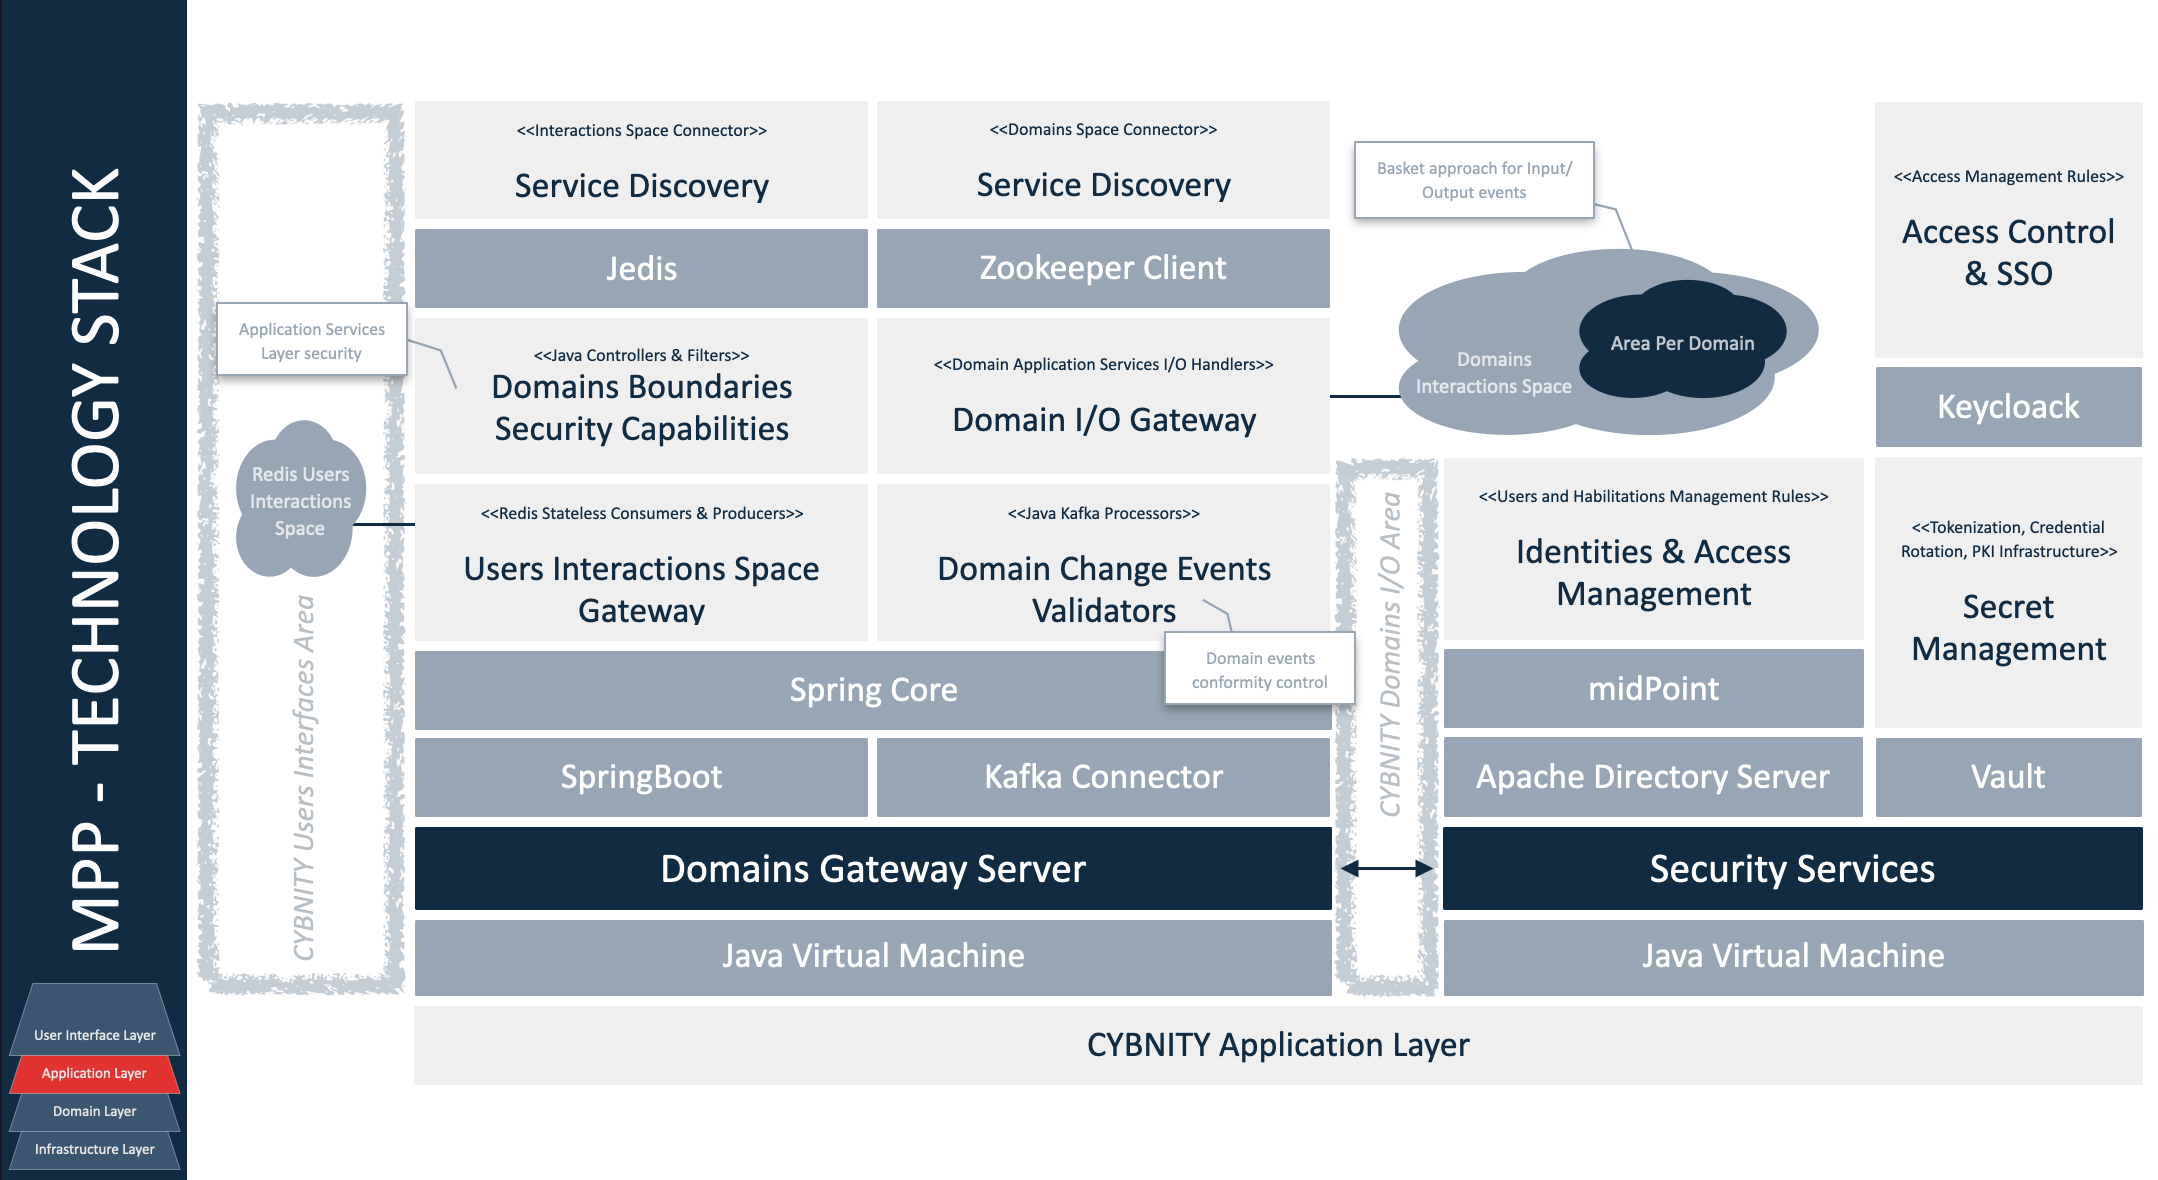
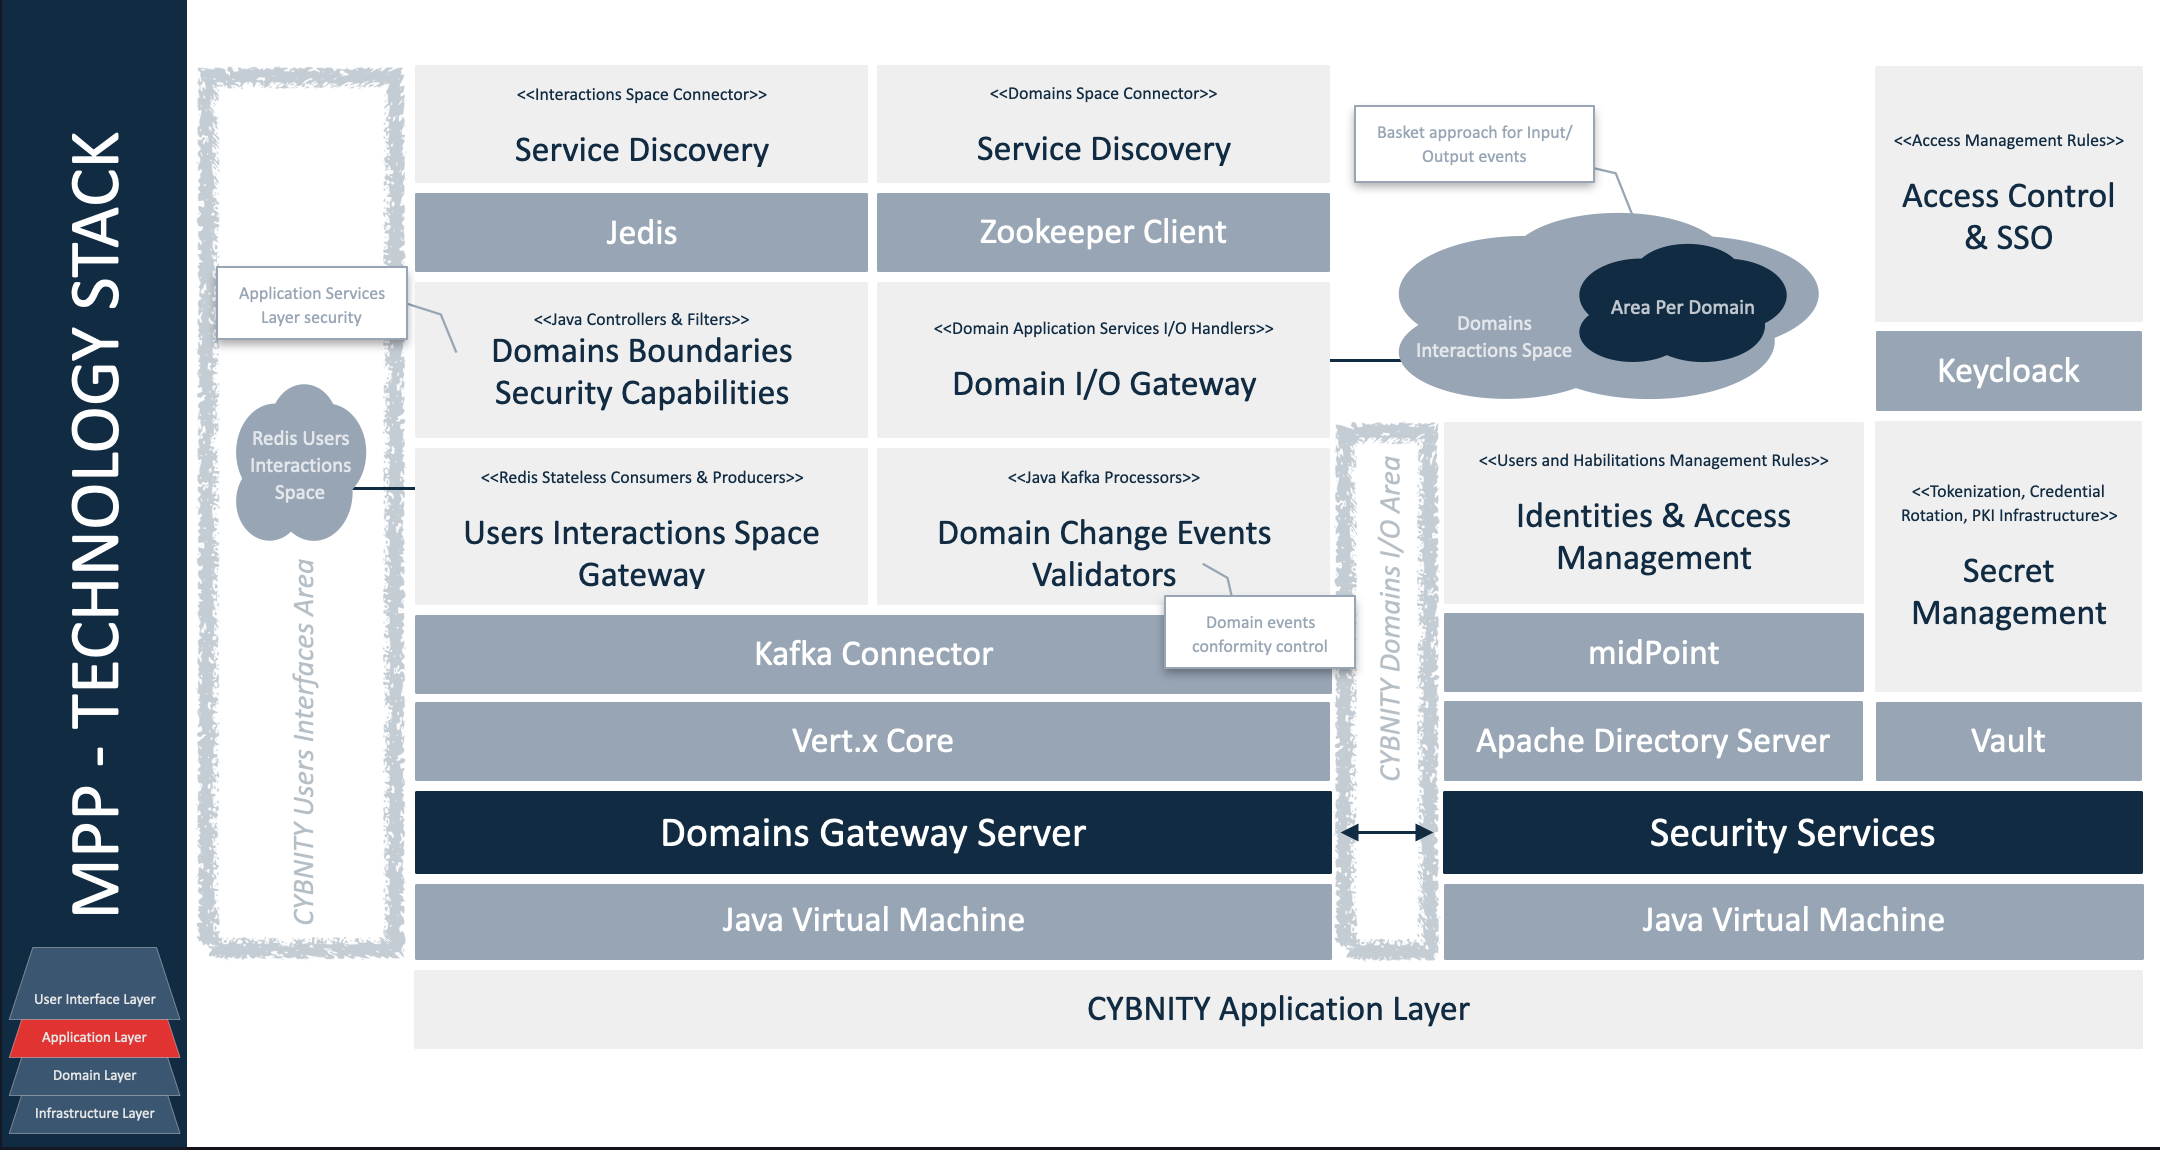
switch spring core use to vert.x core that can ensure the mission without additional spring technology

diff --git a/prototypes-line/v0-stack-integration/proto-specifications/infrastructures/common/event/src/main/java/org/cybnity/infrastructure/common/event/QueryEvent.java b/prototypes-line/v0-stack-integration/proto-specifications/infrastructures/common/event/src/main/java/org/cybnity/infrastructure/common/event/QueryEvent.java
@@ -15,7 +15,7 @@ import java.util.HashMap;
  * more specific passing values to the functions to prevent unknown behavior.
  */
 public interface QueryEvent extends Event {
-	
+
 	/**
 	 * Get the incoming parameter available for only read about their value. If a
 	 * parameter is passed by value, it is okay not passing variable as const as the
@@ -30,31 +30,4 @@ public interface QueryEvent extends Event {
 	 */
 	public HashMap<String, String> inParameters();
 
-	/**
-	 * Get the outgoing parameters that the function to execute does not require to
-	 * read the value, parameter value is of no importance. In fact the parameters
-	 * marked are needed to output multiple values. Such parameters are needed to be
-	 * pointers, references and structures. This set of parameters passed MUST be
-	 * modified by the executed command.
-	 * 
-	 * @return A list of output parameters (e.g return channel name) that should be
-	 *         valued by the executed command. Null when none predetermined are
-	 *         requested to be delivered.
-	 */
-	public HashMap<String, String> outParameters();
-
-	/**
-	 * Get the reference parameters that the function to execute does not require to
-	 * read the value, parameter value is of no importance. In fact the parameters
-	 * marked are maybe modified to output multiple values. Such parameters are
-	 * needed to be pointers, references and structures. This set of parameters
-	 * passed MAY be modified by the executed command.
-	 * 
-	 * @return A list of output parameters (e.g a result channel when a notification
-	 *         of execution result can be published) that could be valued by the
-	 *         executed command. When existing, each parameter had been initialized
-	 *         before being passed to the command executor. Null when none
-	 *         predetermined are requested to be delivered.
-	 */
-	public HashMap<String, String> refParameters();
 }

diff --git a/prototypes-line/v0-stack-integration/proto-specifications/infrastructures/common/event/src/main/java/org/cybnity/infrastructure/common/event/CommandEvent.java b/prototypes-line/v0-stack-integration/proto-specifications/infrastructures/common/event/src/main/java/org/cybnity/infrastructure/common/event/CommandEvent.java
@@ -52,9 +52,10 @@ public interface CommandEvent extends Event {
 	 * pointers, references and structures. This set of parameters passed MUST be
 	 * modified by the executed command.
 	 * 
-	 * @return A list of output parameters (e.g return channel name) that should be
-	 *         valued by the executed command. Null when none predetermined are
-	 *         requested to be delivered.
+	 * @return A list of output parameters (e.g entity reference that should be
+	 *         changed as ordered by this command to execute) that should be valued
+	 *         by the executed command. Null when none predetermined are requested
+	 *         to be delivered.
 	 */
 	public HashMap<String, String> outParameters();
 
@@ -65,11 +66,11 @@ public interface CommandEvent extends Event {
 	 * needed to be pointers, references and structures. This set of parameters
 	 * passed MAY be modified by the executed command.
 	 * 
-	 * @return A list of output parameters (e.g a result channel when a notification
-	 *         of execution result can be published) that could be valued by the
-	 *         executed command. When existing, each parameter had been initialized
-	 *         before being passed to the command executor. Null when none
-	 *         predetermined are requested to be delivered.
+	 * @return A list of output parameters (e.g entity reference that could be
+	 *         changed as ordered by this command to execute) that could be valued
+	 *         by the executed command. When existing, each parameter had been
+	 *         initialized before being passed to the command executor. Null when
+	 *         none predetermined are requested to be delivered.
 	 */
 	public HashMap<String, String> refParameters();
 }

diff --git a/prototypes-line/v0-stack-integration/proto-specifications/infrastructures/common/event/src/main/java/org/cybnity/infrastructure/common/event/ChangedStateEvent.java b/prototypes-line/v0-stack-integration/proto-specifications/infrastructures/common/event/src/main/java/org/cybnity/infrastructure/common/event/ChangedStateEvent.java
@@ -3,8 +3,10 @@ package org.cybnity.infrastructure.common.event;
 /**
  * Contract about an event regarding a change observed on a topic. This type of
  * event can be pushed by a domain regarding a modified attribute value
- * performed on an entity under its responsibility.
+ * performed on an entity under its responsibility, and acts as a Notification
+ * event allowing to possible observers (e.g domain consumers) to be informed
+ * about a change fact that could interested (e.g for synchronization of their
+ * local domain or external domain reference upgraded information).
  */
 public interface ChangedStateEvent extends Event {
-
 }

diff --git a/demonstrators-line/demonstrator-v0/technologies-stack-analysis.md b/demonstrators-line/demonstrator-v0/technologies-stack-analysis.md
@@ -21,7 +21,7 @@ Should provide basic technologies set allowing the development of a first protot
 
 ### User Interface Layer
 #### Dynamics
-Should be real-time: frontend and backend components should maintain up-to-date states of domain events (e.g domain data state changes) and collaboration data (e.g shared data, contextualized capabilities during a security crisis situation) when collaboration data are managed in real-tim between several CYBNITY users connected via their CYBNITY cockpits).
+Should be real-time: frontend and backend components should maintain up-to-date states of domain events (e.g domain data state changes) and collaboration data (e.g shared data, contextualized capabilities during a security crisis situation) when collaboration data are managed in real-time between several CYBNITY users connected via their CYBNITY cockpits).
 
 #### Context and local persistence
 Should proposed personal management of real-time data dedicated to the connected user in dedicated space (e.g session during cockpit access, when a user prepare a draft of a security information before to commit it in a transaction mode to a CYBNITY domain).
@@ -98,16 +98,15 @@ The current status of technology already in the analysis stream give a general v
 | UI | Web GUI Reactive Frontend Library | ReactJS | `WIN` | | | HTML/CSS view from rendering components based with data changes auto-refresh, according to a View / Presenter pattern approach |
 | UI | Client-Side Data Model Format | JSON | `WIN` | | | Data and command events (e.g Data Transform Object, domain events) |
 | UI | Server-Side Reactive Backend Server | Eclipse Vert.x | `WIN` | | | UI reactive services (e.g UI cockpit capabilities) and processors (e.g UI behavior logic) managing access control, controllers collaboration (e.g event bus) and command/data events integration (via Redis client) with application(s) services layer via Application Domains Access Hub |
-| APPLICATION / DOMAIN | Users Interactions Space Library | Redis Connector | `WIN` | | | Embedded memory database client for UI messages and application domains integration between UI layer and application layer; [Jedis](https://github.com/redis/jedis) java client for Redis cluster discovery |
-| APPLICATION / DOMAIN | Domains Interactions Space Library | Kafka Connector | `WIN` | | | Embedded memory database client for application domains events between applications and domains layer |
+| APPLICATION / DOMAIN | Users Interactions Space Library | Redis Connector | `WIN` | | | Embedded memory database (streamed events store) client for UI messages and application domains integration between UI layer and application layer; [Jedis](https://github.com/redis/jedis) java client for Redis cluster discovery |
+| APPLICATION / DOMAIN | Domains Interactions Space Library | Kafka Connector | `WIN` | | | Embedded memory database (streamed events store) client for application domains events between applications and domains layer |
 | APPLICATION / DOMAIN | Domains Events Validation | [Kafka processors/consumers api](https://kafka.apache.org/) | `WIN` | | | Stateless Anti-Corruption Layer (e.g Application Services Layer), remote proxy, input/output ports executed into JVM with Kafka connector API (e.g Java client), validators of domain events (e.g quality and conformity control) |
 | APPLICATION / DOMAIN | Real-Time Stream Computation | Apache Flink | `WIN` | | | Cluster framework for stateful data processing, CEP, data pipeline job running into a Flink cluster, Saga [Pattern](https://microservices.io/patterns/data/saga.html) for transactional flow |
 | APPLICATION / DOMAIN | Real-Time Data Stream Computation | [Kafka Streams](https://kafka.apache.org/documentation/streams/) Client Library | `ALT` | | | Library for stateful data processing (e.g CYBNIYT process / feature modules) and pipeline running into independent application implementation |
-| APPLICATION / DOMAIN | Application Context Manager | Spring Core | `WIN` | | | Injection of dependency, configuration of assembled applicative components and technical services |
+| APPLICATION / DOMAIN | Application Context Manager | Spring Core | `ALT` | | | Injection of dependency, configuration of assembled applicative components and technical services |
 | APPLICATION INFRASTRUCTURE | Services Discovery | Zookeeper Client | `WIN` | | | Client for discovery of services (e.g Kafka brokers) and/or to maintained configuration information (e.g service names, properties) as connector to contents |
 | APPLICATION INFRASTRUCTURE | Domains Interactions Space | [Kafka Cluster](https://kafka.apache.org/) | `WIN` | | | Distributed memory database in event-driven approach for management of domains inputs/outputs via embedded mode (distributed data cluster); [Kafka Backup](https://medium.com/@anatolyz/introducing-kafka-backup-9dc0677ea7ee) consists of two Connectors for Kafka Connect: One for Backup (Implemented as a Sink Connector) and one for the restore of data (Implemented as a Source Connector) |
-| APPLICATION INFRASTRUCTURE | Application Execution Container | Spring Boot | `WIN` | | | Execution environment of application service layers |
-| APPLICATION INFRASTRUCTURE | Java Runtime Environment | Eclipse OpenJ9 8/11 | `WIN` | | | [Documentation](https://www.eclipse.org/openj9/docs/index.html) |
+| APPLICATION INFRASTRUCTURE | Java Runtime Environment | Eclipse OpenJ9 8/11 | `WIN` | | | Execution environment of application service layers; [Documentation](https://www.eclipse.org/openj9/docs/index.html) |
 | APPLICATION INFRASTRUCTURE | Java Runtime Environment | Liberica JDK | `ALT` | | | |
 | APPLICATION INFRASTRUCTURE | Access Control & Single-Sign-On | [Keycloack](https://www.keycloak.org/) | `WIN` | | | Dynamic part of the IAM solution that works with the data in the real time; SAML2.0 protocol for user authentication with SSO |
 | APPLICATION INFRASTRUCTURE | Identity & Access Management | midPoint | `WIN` | | | IDM system implement integration part of the IAM solution that move the data around; maintain data in the directory service (identity store); Federation, RBAC or ABAC based on attributes; place to apply policies, such as Role-Based Access Control (RBAC), Segregation of Duties (SoD), and various policies for compliance with regulations; SPML (to create users/permissions as access provisioning) |
@@ -257,8 +256,6 @@ The acceptance level per differentiation criteria is evaluated as:
 | Telegraf Agent | | | | | | | |
 | Grafana | | | | | | | |
 | InfluxDB | | | | | | | |
-| Spring Core | | | | | | | |
-| Spring Boot | | | | | | | |
 | Apache Zookeeper | | | | | | | |
 | Liberica JDK | | | | | | | |
 | Eclipse OpenJ9 8/11 JRE | | | | | | | |

diff --git a/prototypes-line/v0-stack-integration/README.md b/prototypes-line/v0-stack-integration/README.md
@@ -21,8 +21,7 @@ Main goal is to validate the compatibility of technologies set assembly, their p
 | Apache Flink | | |- [Installation](https://flink.apache.org/downloads.html)<br>- [Visualizer web app](https://flink.apache.org/visualizer/)<br>- [Redis Connector](https://bahir.apache.org/docs/flink/current/flink-streaming-redis/)<br>- [Connectors](https://flink-packages.org/)|
 | [Telegraf Agent](https://www.influxdata.com/time-series-platform/telegraf/) | | |- [Documentation](https://docs.influxdata.com/telegraf/v1.22/)|
 | [InfluxDB](https://www.influxdata.com/) | | |- [Installation](https://portal.influxdata.com/downloads/)|
-| Spring Core | | |- [Core documentation](https://docs.spring.io/spring-framework/docs/current/reference/html/core.html)<br>- [Spring Vault](https://spring.io/projects/spring-vault)<br>- [Accessing Vault](https://spring.io/guides/gs/accessing-vault/)<br>- [Valut configuration](https://spring.io/guides/gs/vault-config/)<br>- [Spring Kafka](https://spring.io/projects/spring-kafka)<br>- [Messaging with Redis](https://spring.io/guides/gs/messaging-redis/)|
-| [Spring Boot](https://spring.io/projects/spring-boot) | | |- [SpringBoot with Docker](https://spring.io/guides/gs/spring-boot-docker/)|
+| Eclipse vert.x Core |4.3.2| |- Vert.x Vault<br>- Kafka Connector<br>- Jedis messaging plugin with Redis|
 | [Apache Zookeeper](https://zookeeper.apache.org) | | |- [Documentation](https://zookeeper.apache.org/doc/r3.8.0/index.html)<br>- [Java example](https://zookeeper.apache.org/doc/r3.8.0/javaExample.html)<br>- [Standalone local instance installation](https://zookeeper.apache.org/doc/r3.8.0/zookeeperStarted.html#sc_InstallingSingleMode)|
 | Eclipse Temurin JRE |JDK/JRE 11.0.15| |- OpenJDK distribution from Adoptium<br>- Installation of [Eclipse Adoptium Temurin JDK](https://adoptium.net/installation/)<br>- Official images for OpenJDK [binaries built by Eclipse ](https://hub.docker.com/_/eclipse-temurin/) maintained by Adoptium<br>-POC state: OK build/run with Linux Alpine|
 | Linux Alpine OS |3.16.0| |-POC state: OK build/run with Docker|
@@ -96,6 +95,6 @@ Several technologies are selected into the stack version for implementation of c
 |Secret Management server|Security Services|- Vault<br>- Ubuntu OS<br>- Docker Image<br>- MicroK8s|Test of storage/retrieve of user token used by Asset Control & SSO server|
 |Users Interactions broker|Users Interactions Space|- Redis Cluster<br>- Telegraf Agent<br>- Ubuntu OS<br>- Docker Image<br>- MicroK8s|Telegrag agent (plugin for Redis cluster) push monitoring to Event Logging Server|
 |Event Logging server|Logging|- InfluxDB<br>- Ubuntu OS<br>- Docker Image<br>- MicroK8s|Logs repository regarding Redis instances' activities|
-|Asset Control Domain Gateway server|Domains Gateway Server|- Java Kafka POJO<br>- Zookeeper Client<br>- Jedis<br>- Kafka Connector<br>- Spring Core<br>- SpringBoot<br>- Temurin JVM<br>- Alpine Linux OS<br>- Docker Image<br>- MicroK8s|Sample code which integrate the request (e.g validate a request parameter like "asset name to read") of UI layer to domain, and execute the requested feature (e.g read of an asset description) via delegation to a RT computation unit (e.g domain model of Asset Control implementing the Security Feature named Asset);<br>Java Processor/Consumer as domain application service layer|
+|Asset Control Domain Gateway server|Domains Gateway Server|- Java Kafka POJO<br>- Zookeeper Client<br>- Jedis<br>- Kafka Connector<br>- Vert.x Core<br>- Temurin JVM<br>- Alpine Linux OS<br>- Docker Image<br>- MicroK8s|Sample code which integrate the request (e.g validate a request parameter like "asset name to read") of UI layer to domain, and execute the requested feature (e.g read of an asset description) via delegation to a RT computation unit (e.g domain model of Asset Control implementing the Security Feature named Asset);<br>Java Processor/Consumer as domain application service layer|
 |Domains Interactions broker|Events Brokers Cluster (Domains Interactions Space)|- Kafka Broker instance<br>-Zookeeper Registry<br>- Temurin JVM<br>- Alpine OS<br>- Docker Image<br>- MicroK8s| Kafka cluster|
 |RTS Computation Unit server|Real-Time Stream Computation Unit|- Apache Flink<br>- Zookeeper Client<br>- Kafka Connector<br>- Flink CEP<br>- Temurin JVM<br>- Docker Image|Asset feature java implementation with Flink;<br>Flink CEP test for command chain pattern implementation that build the Asset description requested by the UI layer and provider by the Domain model|
